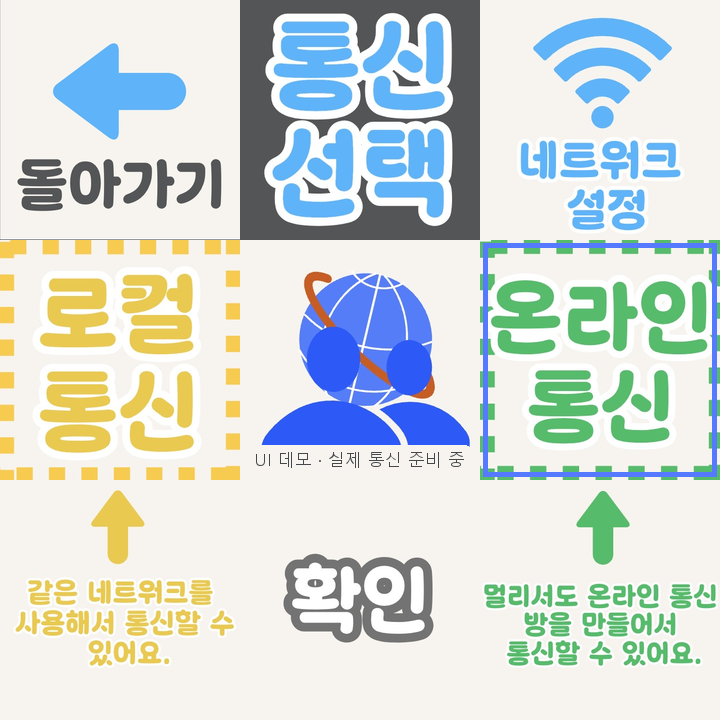
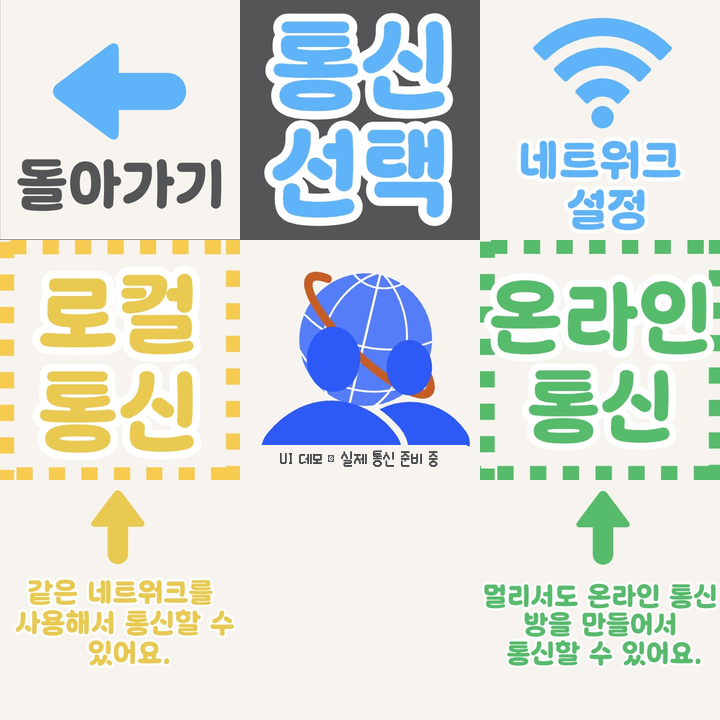
UI 가독성 향상

Changed region(s): [[0.6722, 0.3361, 1.0, 0.6722], [0.3972, 0.7639, 0.6111, 0.9167], [0.3972, 0.6111, 0.6111, 0.6722]]

diff --git a/vttt/ui_render.py b/vttt/ui_render.py
@@ -2,6 +2,7 @@
 
 from PIL import Image, ImageDraw
 from .profile import THEMES
+from .rules import MODES
 from .connectivity_ui import SYMBOLS, NETWORK_SLOTS
 
 BG = '#F7F3EF'
@@ -23,6 +24,38 @@ def draw_grid(canvas):
     d.rectangle((0, 0, 719, 719), outline='#061B29', width=6)
 
 
+def draw_scores(r, canvas, app):
+    stats = app.profile.data['stats']
+    image_tile(r, canvas, 1, 'go_back_button')
+    d = ImageDraw.Draw(canvas)
+    d.rectangle((240, 0, 479, 239), fill='#545656')
+    for cy, label in ((77, '대국'), (163, '기록')):
+        d.text((360, cy), label, font=r.font(68), anchor='mm', fill='#FFFFFF')
+
+    def metric(button, title, value, footer, color, background=BG):
+        x, y = r.origin(button)
+        d.rectangle((x, y, x + 239, y + 239), fill=background)
+        r.text(d, (x + 120, y + 39), title, 29, '#45494C')
+        d.line((x + 28, y + 74, x + 212, y + 74), fill='#D9D3CC', width=2)
+        r.text(d, (x + 120, y + 132), value, 76, color, max_width=198)
+        r.text(d, (x + 120, y + 201), footer, 20, '#5B5B5B')
+
+    metric(3, '총 대국', f"{stats['played']:,}", '누적 플레이 횟수', '#3156C4', '#EDF0FC')
+    metric(4, '승리', f"{stats['wins']:,}", 'AI를 이긴 횟수', '#24764B')
+    metric(5, '패배', f"{stats['losses']:,}", 'AI에게 진 횟수', '#B73159')
+    metric(6, '무승부', f"{stats['draws']:,}", 'AI와 비긴 횟수', '#3156C4')
+    metric(7, '2인 대국', f"{stats['local']:,}", '함께 플레이한 횟수', '#7043A0')
+    metric(8, '보유 골드', f"{app.profile.data['coins']:,}", '상점에서 사용하세요', '#946100', '#FFF3CE')
+    ai_total = stats['wins'] + stats['losses'] + stats['draws']
+    rate = stats['wins'] / ai_total if ai_total else 0
+    metric(9, 'AI 상대 승률', f'{rate:.0%}' if ai_total else '-',
+           f'AI 대국 {ai_total:,}회 기준' if ai_total else '아직 대국 기록이 없어요', '#24764B')
+    d.rounded_rectangle((508, 702, 692, 710), radius=4, fill='#DDE6DF')
+    if rate:
+        d.rounded_rectangle((508, 702, 508 + round(184 * rate), 710), radius=4, fill='#24764B')
+    draw_grid(canvas)
+
+
 def draw_settings(r, canvas, app):
     s = app.settings
     for button, name in ((1, 'go_back_button'),
@@ -39,6 +72,69 @@ def draw_settings(r, canvas, app):
         x, y = r.origin(7)
         tile = canvas.crop((x, y, x + 240, y + 240)).convert('L').convert('RGB')
         canvas.paste(Image.blend(tile, Image.new('RGB', tile.size, '#989898'), 0.55), (x, y))
+    draw_grid(canvas)
+
+
+def draw_help(r, canvas, app):
+    image_tile(r, canvas, 1, 'go_back_button')
+    d = ImageDraw.Draw(canvas)
+    index = app.help_index
+    rule = list(MODES.values())[index - 1] if index else None
+    d.rectangle((240, 0, 479, 239), fill='#545656')
+    r.text(d, (360, 78), rule.title if rule else '게임 설명', 42, '#FFFFFF')
+    r.text(d, (360, 153), '게임 규칙' if rule else '기본 조작', 30, '#FFCC25')
+    r.text(d, (600, 36), '승리 목표', 28)
+    r.text(d, (600, 105), '3', 88, '#24764B')
+    r.text(d, (600, 174), '가로 / 세로 / 대각선', 20)
+    r.text(d, (600, 207), '세 칸을 이으세요', 23)
+
+    pieces = ('말 개수', ('한 사람당', '말은 3개'))
+    pages = {
+        'vanishing': (pieces,
+            ('말이 사라질 때', ('네 번째 말을 두면', '가장 오래된 말이', '사라집니다')),
+            ('승리 조건', ('말이 사라진 뒤', '세 칸을 이으면', '승리합니다'))),
+        'original': (
+            ('착수 방법', ('빈 칸을 골라', '번갈아 두세요')),
+            ('승리 조건', ('가로 / 세로 / 대각선', '세 칸을 이으면 승리')),
+            ('무승부', ('빈 칸이 없으면', '무승부입니다'))),
+        'blind': (pieces,
+            ('말 공개', ('방금 둔 말만', f"{app.config['blind_reveal_seconds']:g}초 동안 보여요", '나머지 말은 숨겨요')),
+            ('기억하세요', ('말의 위치를', '기억하며 두세요', '세 칸을 이으면 승리'))),
+        'gravity': (
+            ('말의 이동', ('선택한 세로줄의', '맨 아래로 떨어져요', '한 사람당 말은 3개')),
+            ('아래줄 삭제', ('6수마다 아래줄 삭제', '빨간 테두리가 뜨면', '삭제를 준비하세요')),
+            ('연속 낙하', ('말이 사라지면', '위쪽 말도 떨어져요', '낙하 후 연결을 확인'))),
+        'switch_one': (pieces,
+            ('자리 교환', ('무작위 턴에', '같은 수명의 두 말이', '서로 자리를 바꿔요')),
+            ('교환 예고', ('주황색 테두리로', '바뀔 말을 알려줘요', '세 칸을 이으면 승리'))),
+        'switch_nine': (pieces,
+            ('말 전체 반전', ('무작위 턴에', '모든 말의 주인이', '한꺼번에 바뀝니다')),
+            ('전환 예고', ('빨간 테두리 확인', '내 말이 놓인 뒤', '모든 말이 뒤집혀요'))),
+    }
+    cards = pages[rule.key] if rule else (
+        ('말 놓기', ('원하는 칸을', '한 번 눌렀다 떼세요')),
+        ('일시정지', ('가운데 5번 버튼을', '1.3초 길게 누르세요')),
+        ('말 수명', ('1: 다음 내 착수에', '사라지는 말입니다', '2와 3은 더 유지돼요')))
+    for number, ((title, lines), color) in enumerate(zip(cards, ('#3156C4', '#946100', '#24764B')), 1):
+        x, y = r.origin(number + 3)
+        d.ellipse((x + 14, y + 16, x + 42, y + 44), fill=color)
+        r.text(d, (x + 28, y + 30), str(number), 18, '#FFFFFF')
+        r.text(d, (x + 127, y + 47), title, 28, color, max_width=178)
+        d.line((x + 24, y + 80, x + 216, y + 80), fill='#D9D3CC', width=2)
+        for line_index, line in enumerate(lines):
+            cy = y + (125 if len(lines) == 2 else 112) + line_index * 37
+            r.text(d, (x + 120, cy), line, 25, max_width=204)
+
+    for button, art, title in ((7, 'shop/shop_left_button', '이전 설명'),
+                               (9, 'shop/shop_right_button', '다음 설명')):
+        image_tile(r, canvas, button, art)
+        x, y = r.origin(button)
+        r.text(d, (x + 120, y + 213), title, 26)
+    r.text(d, (360, 524), '게임 설명', 29)
+    r.text(d, (360, 610), f'{index + 1} / {len(MODES) + 1}', 52, '#3156C4')
+    for page in range(len(MODES) + 1):
+        cx = 285 + page * 25
+        d.ellipse((cx - 5, 690, cx + 5, 700), fill='#3156C4' if page == index else '#D9D3CC')
     draw_grid(canvas)
 
 
@@ -172,10 +268,10 @@ def draw_connectivity(r, canvas, app):
         art(1, 'go_back_button'); art(3, 'network_setting_button')
         if screen == 'communication':
             art(2, 'multiplay_title')
-            art(4, 'local_multi_button', ui.mode == 'local')
+            art(4, 'local_multi_button')
             art(5, 'multiplay_icon')
-            art(6, 'online_multi_button', ui.mode == 'online')
-            art(7, 'local_multi_info'); art(8, 'select_button'); art(9, 'online_multi_info')
+            art(6, 'online_multi_button')
+            art(7, 'local_multi_info'); art(9, 'online_multi_info')
             r.strip(canvas, 5, 'UI 데모 · 실제 통신 준비 중')
         else:
             art(2, ui.mode + '_multi_title')

diff --git a/vttt/render.py b/vttt/render.py
@@ -7,7 +7,7 @@ from PIL import Image, ImageDraw, ImageFilter, ImageFont, ImageOps
 from .config import ROOT
 from .profile import THEMES
 from .rules import MODES
-from .ui_render import image_tile, draw_setup, draw_rps, draw_duel, draw_shop, draw_settings, draw_result, draw_connectivity
+from .ui_render import image_tile, draw_setup, draw_rps, draw_duel, draw_shop, draw_settings, draw_result, draw_scores, draw_help, draw_connectivity
 
 BG, INK, BLUE, PINK, GREEN, ORANGE, RED = "#F7F3EF", "#45494C", "#5579FF", "#E965B9", "#45AD76", "#F0A030", "#E5383B"
 ASSETS = ROOT / "src/static/images"
@@ -153,6 +153,15 @@ class Renderer:
         screen = app.screen
         if screen in ("start", "menu", "mode"):
             canvas = self.pages[screen].copy()
+            if screen == "mode":
+                theme = app.profile.data["theme"]
+                d = ImageDraw.Draw(canvas)
+                d.rectangle((480, 0, 719, 239), fill=BG)
+                self.text(d, (600, 35), "테마 선택", 31, BLUE)
+                for mark, x in (("o", 494), ("x", 614)):
+                    icon = ImageOps.contain(self.icons[theme, mark], (92, 110), Image.Resampling.LANCZOS)
+                    canvas.paste(icon, (x + (92 - icon.width) // 2, 68 + (110 - icon.height) // 2), icon)
+                self.text(d, (600, 211), THEMES[theme][0], 24)
             if app.notice:
                 self.strip(canvas, 8 if screen == "start" else 2, app.notice)
             return canvas
@@ -185,27 +194,9 @@ class Renderer:
         elif screen == "settings":
             draw_settings(self, canvas, app)
         elif screen == "scores":
-            stats = app.profile.data["stats"]
-            self.tile(canvas, 1, "돌아가기", ("메인 메뉴",))
-            self.tile(canvas, 2, "플레이 기록", (f"총 {stats['played']}회",))
-            for b, title, value in ((4, "AI 상대 승리", stats["wins"]), (5, "AI 상대 패배", stats["losses"]),
-                                    (6, "AI 상대 무승부", stats["draws"]), (7, "2인 대국", stats["local"])):
-                self.tile(canvas, b, title, (str(value) + "회",))
-            self.tile(canvas, 8, "보유 코인", (str(app.profile.data["coins"]),))
-            self.tile(canvas, 9, "저장 안내", ("이 기기에 저장됩니다",))
+            draw_scores(self, canvas, app)
         elif screen == "help":
-            self.tile(canvas, 1, "돌아가기", ("이전 화면",))
-            self.tile(canvas, 8, "도움말", (f"{app.help_index + 1} / 7",))
-            if app.help_index == 0:
-                self.tile(canvas, 4, "착수", ("놓고 싶은 칸을", "한 번 눌렀다 떼세요"))
-                self.tile(canvas, 5, "일시정지", ("가운데 5번 버튼을", "1.3초 길게 누르세요"))
-                self.tile(canvas, 6, "말 수명", ("1: 다음 내 착수에 제거", "2·3: 그만큼 더 유지"))
-            else:
-                rule = list(MODES.values())[app.help_index - 1]
-                self.tile(canvas, 4, rule.title, (rule.description[0],))
-                self.tile(canvas, 5, "진행 규칙", rule.description[1:])
-            self.tile(canvas, 7, "이전 설명", ("눌러서 이동",))
-            self.tile(canvas, 9, "다음 설명", ("눌러서 이동",))
+            draw_help(self, canvas, app)
         elif screen == "diagnostic":
             for i in range(1, 10):
                 self.tile(canvas, i, str(i), ("버튼 / LCD", "입력 확인" if app.diagnostic_button == i else "이 칸을 눌러보세요"),

diff --git a/tests/test_render.py b/tests/test_render.py
@@ -80,15 +80,19 @@ class PieceRenderingTests(unittest.TestCase):
             self.assertEqual(label.call_args.kwargs["icon_size"], 48)
 
     def test_help_page_indicator_is_on_display_eight_and_rule_status_is_removed(self):
+        from PIL import ImageChops
         self.app.go("help")
         for index in range(7):
             self.app.help_index = index
-            with patch.object(self.renderer, "tile", wraps=self.renderer.tile) as tiles:
-                self.renderer.draw(self.app)
-            titles = {call.args[2]: call.args[1] for call in tiles.call_args_list}
-            self.assertEqual(titles["도움말"], 8)
-            self.assertNotIn("규칙 상태", titles)
-            self.assertNotIn(2, titles.values())
+            with patch.object(self.renderer, "text", wraps=self.renderer.text) as labels:
+                image = self.renderer.draw(self.app)
+            pages = [call for call in labels.call_args_list if call.args[2] == f'{index + 1} / 7']
+            self.assertEqual(len(pages), 1)
+            self.assertEqual(pages[0].args[1], (360, 610))
+            self.assertFalse(any('규칙 상태' in call.args[2] or '확정 규칙' in call.args[2]
+                                 for call in labels.call_args_list))
+            self.assertIsNone(ImageChops.difference(image.crop((6, 6, 234, 234)),
+                             self.renderer.art['go_back_button'].crop((6, 6, 234, 234))).getbbox())
 
     def test_gravity_warns_on_all_three_bottom_tiles_only_before_a_clear(self):
         from PIL import ImageColor
@@ -129,6 +133,28 @@ class PieceRenderingTests(unittest.TestCase):
         top, bottom = labels.call_args_list[-2:]
         self.assertEqual((top.args[2], top.kwargs["prefix"]), (1, "위: "))
         self.assertEqual((bottom.args[2], bottom.kwargs["prefix"]), (-1, "아래: "))
+
+    def test_mode_theme_tile_updates_after_applying_a_theme(self):
+        from PIL import ImageChops
+        from vttt.buttons import ButtonEvent
+        app = self.app
+        app.go("mode")
+        before = self.renderer.draw(app)
+        app.handle(ButtonEvent(3, "short"))
+        self.assertEqual(app.screen, "themes")
+        app.profile.data["owned"].append("squirrel")
+        app.shop_page = 0
+        app.handle(ButtonEvent(5, "short"))
+        app.handle(ButtonEvent(8, "short"))
+        self.assertEqual(app.profile.data["theme"], "squirrel")
+        app.handle(ButtonEvent(1, "short"))
+        self.assertEqual(app.screen, "mode")
+        app.flash = ()
+        after = self.renderer.draw(app)
+        self.assertIsNotNone(ImageChops.difference(before.crop((480, 0, 720, 240)),
+                                                  after.crop((480, 0, 720, 240))).getbbox())
+        self.assertIsNone(ImageChops.difference(before.crop((0, 240, 720, 720)),
+                                               after.crop((0, 240, 720, 720))).getbbox())
 
 
 if __name__ == "__main__":

diff --git a/tools/render_previews.py b/tools/render_previews.py
@@ -26,6 +26,12 @@ def render(output, font=None):
             for screen in ("start", "menu", "mode", "setup", "rps", "shop", "settings", "scores", "help", "diagnostic"):
                 app.go(screen)
                 app.renderer.draw(app).save(output / (screen + ".png"))
+            stats, coins = app.profile.data['stats'], app.profile.data['coins']
+            app.profile.data['stats'] = dict(played=128, wins=72, losses=24, draws=12, local=20)
+            app.profile.data['coins'] = 1240
+            app.go('scores')
+            app.renderer.draw(app).save(output / 'scores-sample.png')
+            app.profile.data['stats'], app.profile.data['coins'] = stats, coins
             ui = app.connectivity
             for screen in ("communication", "connection", "room_create", "room_search"):
                 for connection in ("local", "online"):
@@ -62,6 +68,8 @@ def render(output, font=None):
             app.renderer.draw(app).save(output / "result.png")
             app.profile.data["theme"] = "squirrel"
             app.renderer.draw(app).save(output / "result-themed.png")
+            app.go("mode")
+            app.renderer.draw(app).save(output / "mode-themed.png")
             app.go("game")
             app.renderer.draw(app).save(output / "winning-board-themed.png")
             app.start_game()

diff --git a/tests/test_connectivity_ui.py b/tests/test_connectivity_ui.py
@@ -38,8 +38,10 @@ class OfflineUITests(unittest.TestCase):
         self.press(8); self.press(4); self.assertEqual(self.app.screen,'scores')
         self.press(1); self.press(6); self.assertEqual(self.app.screen,'settings')
         self.press(1); self.press(8); self.assertEqual(self.app.screen,'communication')
+        self.press(8)
+        self.assertEqual(self.app.screen, 'communication')
         for b, mode in ((4,'local'),(6,'online')):
-            self.press(b); self.press(8)
+            self.press(b)
             self.assertEqual((self.app.screen,self.ui.mode),('connection',mode))
             for action, screen in ((4,'room_create'),(5,'room_search')):
                 self.press(action); self.assertEqual(self.app.screen,screen)

diff --git a/vttt/connectivity_ui.py b/vttt/connectivity_ui.py
@@ -110,8 +110,7 @@ class ConnectivityUI:
             elif b == 3: self.open_wifi(); self.scan()
             elif b in (4, 6):
                 self.mode = 'local' if b == 4 else 'online'
-                app.touch()
-            elif b == 8: app.go('connection')
+                app.go('connection')
         elif screen in ('connection', 'room_create', 'room_search'):
             if b == 1:
                 app.go('communication' if screen == 'connection' else 'connection')

diff --git a/docs/UI_UPDATE_KO.md b/docs/UI_UPDATE_KO.md
@@ -19,11 +19,11 @@ python -m vttt --check
 
 - `UI예시.pdf`에 맞춰 시작 화면의 틱–택–토 순서, 메뉴의 점수/설정 위치를 정렬했습니다.
 - 메인 메뉴: 2 상점 / 4 점수 / 5 플레이 / 6 설정 / 8 통신. 기존 도움말 버튼은 통신 이미지로 교체했습니다. 게임 규칙 설명은 설정에서 열 수 있습니다.
-- 모드 선택: 1 돌아가기 / 2 모드 제목 / 3 테마 / 가운데·아래 6칸 모드 이미지.
+- 모드 선택: 1 돌아가기 / 2 모드 제목 / 3 현재 적용 중인 테마의 두 말 이미지와 이름 / 가운데·아래 6칸 모드 이미지. 3번을 누르면 테마를 변경할 수 있으며 복귀 시 새 테마를 즉시 반영합니다.
 - 난이도: 4 초보 / 5 중수 / 6 고수 선택 → 8 확인. 7 지움으로 선택 해제.
 - 가위바위보: 위 가운데 상대 선택, 가운데 행 설명, 아래 행 7 가위 / 8 바위 / 9 보 이미지. 비기면 다시 선택하고, 결정되면 선공에 맞춰 기존 게임으로 이동합니다. 같은 기기 2인 플레이에서는 1P가 선택합니다.
 - 상점·테마: 1 돌아가기 / 2 상점 / 3 보유 골드, 4~6 테마 미리보기, 7 이전 / 8 구매·적용 / 9 다음. 화살표로 테마가 한 칸씩 이동합니다. 치이카와 1·2의 새 O/X 이미지를 추가했습니다. 기존 테마의 가격과 소유 기록을 유지합니다.
-- 통신 선택: 1 돌아가기 / 2 통신 선택 / 3 네트워크 설정, 4 로컬 / 5 아이콘 / 6 온라인, 7·9 안내 / 8 확인. 선택한 항목에 테두리를 표시합니다.
+- 통신 선택: 1 돌아가기 / 2 통신 선택 / 3 네트워크 설정, 4 로컬 / 5 아이콘 / 6 온라인, 7·9 안내. 4·6번을 누르면 해당 화면으로 바로 이동하며 8번 확인 버튼은 제거했습니다.
 - 로컬·온라인: 1 돌아가기 / 2 종류 제목 / 3 네트워크 설정, 4 방 만들기 / 5 방 찾기.
 - 방 만들기: 가운데 방 번호·대기 예시, 8 비활성 게임 시작 / 9 방 번호 리셋. 방 찾기: 가운데 예시 방 번호, 8 입장 / 9 다시찾기. 입장은 안내만 표시하며 실제 게임을 열지 않습니다.
 - 설정·결과·상점은 `src/static/images/settings`, `result`, `shop`의 추가 이미지와 첨부된 3×3 배치를 적용했습니다. 설정의 저장 버튼은 제거했으며 변경 시 자동 저장합니다. 5번은 설정 아이콘입니다. 도움말 제목과 페이지 번호는 8번에 표시하며 규칙 상태 칸은 제거했습니다. 상점은 선택 테마에 노란 점선 테두리를 표시하며 실제 가격·보유 골드를 표시합니다.
@@ -32,7 +32,8 @@ python -m vttt --check
 - 전환 수를 착수하면 먼저 자신의 말로 놓인 보드를 화면 표시 후 1초 동안 보여줍니다. 이어서 모든 말이 함께 가로로 좁아졌다가 상대 말로 펼쳐지는 뒤집기 효과를 표시합니다. 연출 중에는 착수·일시정지 입력과 AI 진행을 막으며, 각 단계를 실제 LCD에 표시한 뒤 타이머를 시작합니다. 착수 자체로 승리하면 전환 연출 없이 승리 처리합니다.
 - 모든 테마의 말 12개는 투명 배경 PNG를 사용합니다. 게임판·상점·결과창에서 알파 채널을 유지해 합성하며, 승리 칸의 배경색도 말 뒤로 보입니다.
 - 게임 내 차례 안내와 승리 문구에는 현재 테마의 해당 말 이미지를 문구 옆에 표시합니다. 결과는 `[승리한 말 이미지] 승리!` 형태이며 `1P`·`2P` 표기를 제거했습니다. 가위바위보 전에는 위쪽·아래쪽으로 구분하고, 선공 결정 후 배정된 말 이미지로 표시합니다.
-- 기록과 Wi-Fi는 텍스트 UI를 유지합니다.
+- 점수 화면은 공통 돌아가기 이미지와 3×3 구성을 사용합니다. 누적 대국·승리·패배·무승부·2인 대국·보유 골드를 큰 숫자로 표시하고 AI 상대 승률을 추가했습니다. 승률은 AI 상대 전체 대국(무승부 포함)을 기준으로 계산하며 기록이 없으면 `-`로 표시합니다. Wi-Fi는 텍스트 UI를 유지합니다.
+- 게임 설명도 1번에 공통 돌아가기 이미지를 사용합니다. 위쪽은 모드 제목과 승리 목표, 가운데는 번호가 붙은 세 가지 설명, 아래쪽은 이미지 화살표와 페이지 번호로 구성했습니다. 페이지 표시는 8번을 유지하며, 규칙 상태 문구는 표시하지 않습니다.
 - 그래비티의 아래줄 삭제 직전 턴에는 7·8·9번 전체를 하나로 감싸는 굵은 빨간 테두리와 `이제 지워집니다!`를 표시합니다. 실제 화면 표시 후 최소 2.5초 동안 유지하며, 그동안 선택한 첫 착수는 기억했다가 예고 종료 후 처리합니다. AI도 예고가 끝나기 전에 아래줄을 삭제하지 않습니다.
 - 차례·착수 안내의 말 이미지는 최대 48px, 결과 문구의 말은 최대 72px, 결과창 오른쪽 위 승자 말은 최대 190px로 확대했습니다.
 - AI 대국 승리 보상은 초보 +3 / 중수 +5 / 고수 +10 골드이며 패배는 항상 +1입니다. 난이도가 중수로 고정된 오리지널은 승리 +5입니다. 무승부와 같은 기기 2인 대국은 기존 +2를 유지합니다.
